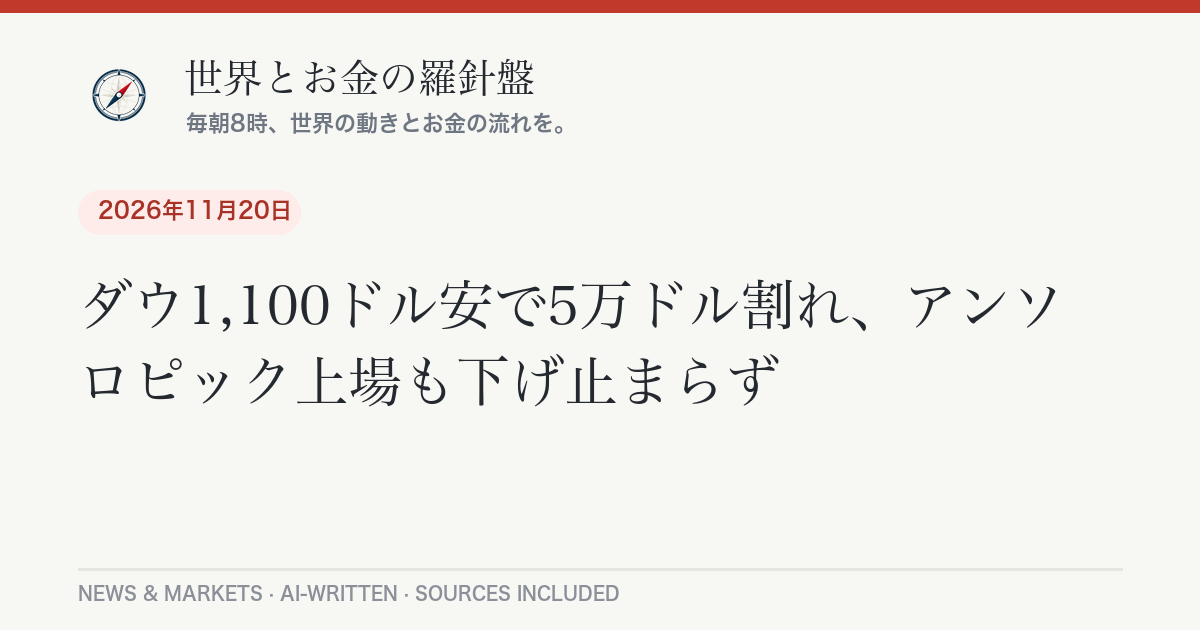
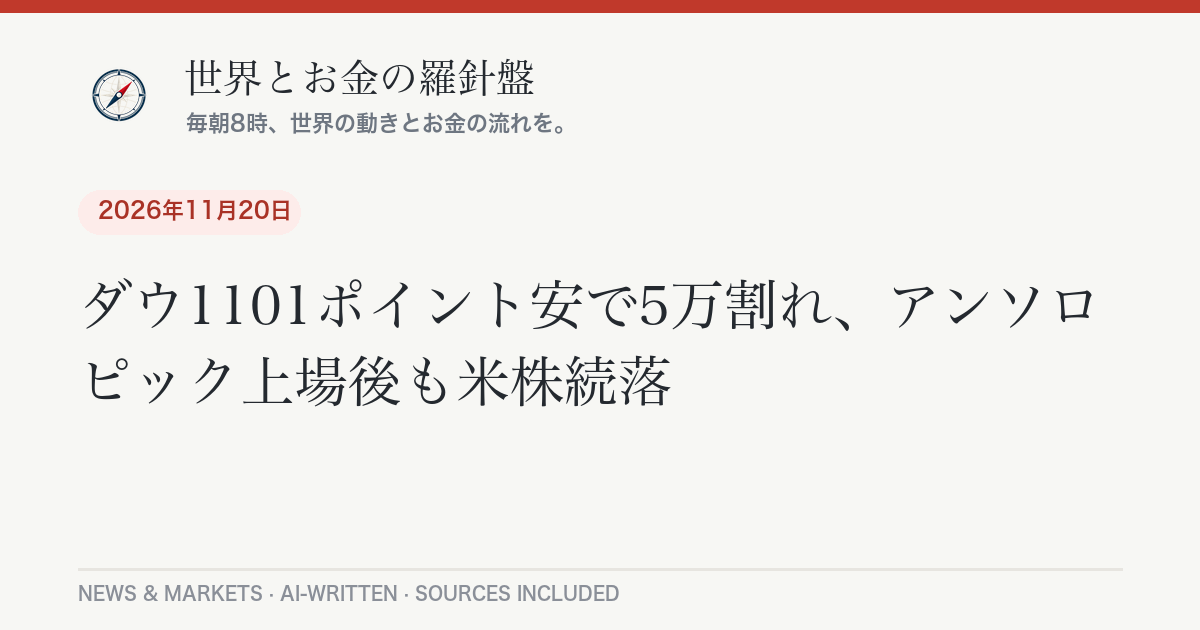
Daily briefing 2026-11-22

Changed region(s): [[0.185, 0.4222, 0.7092, 0.6635], [0.0617, 0.5429, 0.3392, 0.6635], [0.74, 0.4524, 0.925, 0.5127]]

diff --git a/_posts/2026-11-22-daily-briefing.md b/_posts/2026-11-22-daily-briefing.md
@@ -1,0 +1,108 @@
+---
+layout: post
+lang: ja
+title: "AI株の急落が世界に波及、S&P500は調整局面入り｜11月22日のニュースとお金"
+date: 2026-11-22 07:55:00 +0900
+categories: [ニュース, 経済]
+headline: "AI株の急落が世界に波及、S&P500は調整局面入り"
+permalink: /2026/11/22/daily-briefing/
+---
+
+## 今日のポイント
+
+先週金曜（20日）、AI・半導体株を中心に売りが世界へ広がりました。米国では[S&P500が3.7%下落して6,910.39](https://stockinvest.us/digest/digest-us-market-close-2026-11-20)となり、10月6日の最高値から10%超下げて「調整局面」入り。日本でも[日経平均が3,007円安の5万6,436円](https://kabutan.jp/news/marketnews/?b=n202611201373)と急落しました。背景には、AIへの巨額投資が利益につながるのかという不安と、米国の追加利上げ観測があります。週明けの月曜は日本が祝日で、市場が先に動くのは海外です。
+
+## 今日の羅針盤（Compass Insight）
+
+今回の下げは「AIが悪い」という話ではなく、「期待が先に走りすぎた分を巻き戻している」動きと読むのが自然です。これまで株価を押し上げてきた主役が、一度に売られやすい状況になっていました。さらに米連邦準備制度理事会（FRB）のウォラー理事は、[12月に0.5ポイントの利上げが必要になるかもしれない](https://www.cnbc.com/2026/11/18/federal-reserve-governor-christopher-waller.html)と発言。成長株には金利上昇が重荷になります。
+
+家計への影響は二つ。一つは、投資信託や新NISAで米国株・全世界株を持つ人の評価額が、短期的には大きく振れること。もう一つは為替です。円は[159円前後の円安水準](https://fx.minkabu.jp/news/384936)にあり、米金利が上がると円安が続き、輸入品やエネルギー価格に響く可能性があります。
+
+短期では、12月8〜9日のFOMCに向けた米国の物価指標と、半導体株の落ち着き具合に注目。中長期では、AI投資が実際に収益を生み出せるかという「中身」の確認が焦点になりそうです。慌てて売買するより、自分の積立の金額と期間を見直す機会と捉えるのも一案です。
+
+## 今日のニュース
+
+### 日本
+
+- 報道によると、政府が年末に改定する安全保障関連3文書の素案に、原子力潜水艦の導入を「検討に着手し、早期に結論を得る」と明記する方針が20日に分かった。与党内では防衛費の大幅増額を求める声も強まっている。
+- 関文科相の政治資金パーティーをめぐり、野党から辞任要求が相次いでいる。自民党の鈴木幹事長は交代を示唆したと報じられた。
+- 与党は定数削減法案の月内の衆院通過を目指している。
+- 23日（月）は勤労感謝の日で、東京市場は休場。
+
+### 世界
+
+- 中東情勢が緊迫している。ホルムズ海峡周辺では攻撃の報告が増え、[バーレーンはイランによる空からの攻撃を迎撃したと発表](https://gulfnews.com/uae/middle-east-war-trump-says-iran-wants-deal-but-terms-are-unacceptable-1.500755788)。米国とイスラエルがイランへの新たな攻撃を検討していると[CBSが報じた](https://www.cbsnews.com/news/iran-war-us-israel-considering-new-assault-sources-say/)。
+- サウジアラビアはフーシ派のミサイル攻撃を迎撃したと伝えられている。
+
+### アメリカ
+
+- AI開発企業アンソロピックが19日にナスダックへ上場。公開価格83ドルに対し[初日は97.17ドルで引け、17%高](https://www.cbsnews.com/news/anthropic-ipo-nasdaq-debut-claude-ai/)。しかし翌20日はAI株全体の下げに巻き込まれ、AP通信の集計では[8.5%安の88.91ドル](https://finance.yahoo.com/markets/stocks/articles/dow-p-500-enter-correction-224600817.html)となった。
+- FRBのウォラー理事が12月の大幅利上げの可能性に言及。市場は0.25ポイント利上げをほぼ織り込んでいるとされる。
+
+### ヨーロッパ
+
+- 独仏英とウクライナの首脳が、ロシアにエネルギー施設への攻撃を冬の間やめるよう求め、黒海での停戦も提案した。([Kyiv Post](https://kyivpost.com/post/90658))
+- 20日のロシアによるキーウ攻撃でオーストリアとオランダの大使館が被害を受け、フランスが国連安全保障理事会の会合を求めた。([France 24](https://france24.com/en/europe/20261120-live-deadly-russian-attacks-damage-two-bridges-in-kyiv-mayor-says))
+
+## 経済とお金の動き
+
+### 世界の経済と相場
+
+20日の終値ベースです（米国・欧州は現地時間の20日、為替は欧州中央銀行の基準日20日）。
+
+| 指標 | 水準 | 前日比 |
+|---|---|---|
+| 日経平均株価 | [56,436.65円](https://kabutan.jp/news/marketnews/?b=n202611201373) | <span class="chg-down">-3,007.56円（-5.06%）</span> |
+| NYダウ | [48,147.33ドル](https://stockinvest.us/digest/digest-us-market-close-2026-11-20) | <span class="chg-down">-949.73ドル（-1.93%）</span> |
+| S&P500 | [6,910.39](https://stockinvest.us/digest/digest-us-market-close-2026-11-20) | <span class="chg-down">-3.70%</span> |
+| ナスダック総合 | [22,617.73](https://stockinvest.us/digest/digest-us-market-close-2026-11-20) | <span class="chg-down">-5.28%</span> |
+| 欧州STOXX600 | [625.65](https://www.marketscreener.com/news/european-stocks-close-sharply-lower-in-friday-trading-amid-tech-selloff-ce785ed3da80f625) | <span class="chg-down">約-2.0%</span> |
+| ドル円（ECB基準） | [158.64円](https://api.frankfurter.app/latest?from=USD&to=JPY) | 基準日は11月20日 |
+| WTI原油 | 80ドル台前半〜半ば（報道により差） | 3週連続で週間は下落の見通し |
+
+週間では、S&P500が8.6%、ナスダックが約10%下落し、ナスダックは2020年3月以来の厳しい週となりました。恐怖指数と呼ばれるVIXは35.89まで上がっています。日経平均も週間で約7.7%下げました。
+
+原油は、中東の供給不安と、ホルムズ海峡の出荷が戦前の水準近くまで戻ったことによる供給過剰観測がせめぎ合っています。媒体によって終値の数字が食い違うため、具体値は「80ドル台」にとどめます。
+
+### アメリカの経済
+
+FRBが利上げ局面にある点が最大の特徴です。ウォラー理事は12月に0.5ポイントの利上げが必要かもしれないと述べました。ただし委員会の総意ではなく、12月8〜9日の会合までに発表される物価の数字次第です。株式市場にとっては、AI株の割高感と金利上昇が同時に重なる形になっています。
+
+### 日本の経済
+
+東京市場ではソフトバンクグループやアドバンテストなど、AI・半導体関連が指数を大きく押し下げました。日経平均の終値は4月上旬以来の水準です。円は159円前後で推移しており、日銀の植田総裁の発言をめぐって12月利上げの見方が割れています。
+
+## 今日の注目銘柄・セクター
+
+- **半導体関連（エヌビディアなど）**：AI投資の収益性への疑問から売りが集中。エヌビディアは[20日に約14%下落](https://www.cnbc.com/2026/11/20/sp-500-correction-market-sell-off.html)したと報じられた。欧州でもASMLやインフィニオンが下げを主導した。
+- **ソフトバンクグループ**：AI関連の投資家として知られ、東京市場で特に大きく下落した。日経平均を押し下げた銘柄の筆頭に挙げられている。
+- **アンソロピック（ANT）**：19日に上場し初日は上昇したが、翌日はAI株全体の下げの中で反落。公開価格83ドルは上回って引けた。
+- **エネルギー**：中東リスクと供給過剰観測で原油が揺れており、関連株は値動きが大きい。
+
+*※特定銘柄の売買を推奨するものではありません。投資判断はご自身の責任で。*
+
+## まとめ：注目の3つ
+
+1. AI・半導体株の急落が日米欧に連鎖。S&P500は調整局面入り、ナスダックは約10%の週間下落。
+2. FRBは12月に利上げの見通し。0.5ポイントの可能性も議論されている。円は159円前後。
+3. 中東情勢の緊迫が原油と市場心理を左右。週明けは日本が休場のため、海外の動きに注意。
+
+---
+<div class="post-sources" markdown="1">
+
+**出典：**
+- [株探：日経平均 大引け（11月20日）](https://kabutan.jp/news/marketnews/?b=n202611201373)
+- [StockInvest：S&P500が調整局面入り（11月20日）](https://stockinvest.us/digest/digest-us-market-close-2026-11-20)
+- [Yahoo Finance：Dow, S&P 500 enter correction](https://finance.yahoo.com/markets/stocks/articles/dow-p-500-enter-correction-224600817.html)
+- [CNBC：S&P 500 correction: Five forces behind the market sell-off](https://www.cnbc.com/2026/11/20/sp-500-correction-market-sell-off.html)
+- [CNBC：Fed's Waller says Fed may need to 'shock people'](https://www.cnbc.com/2026/11/18/federal-reserve-governor-christopher-waller.html)
+- [CBS News：Anthropic shares gain 17% on first day of trading](https://www.cbsnews.com/news/anthropic-ipo-nasdaq-debut-claude-ai/)
+- [MarketScreener：European stocks close sharply lower](https://www.marketscreener.com/news/european-stocks-close-sharply-lower-in-friday-trading-amid-tech-selloff-ce785ed3da80f625)
+- [みんかぶFX：ドル円159.60円台](https://fx.minkabu.jp/news/384936)
+- [CBS News：US and Israel considering new assault on Iran](https://www.cbsnews.com/news/iran-war-us-israel-considering-new-assault-sources-say/)
+- [Kyiv Post：Europe Seeks Winter Truce](https://kyivpost.com/post/90658)
+- 市場データ: [frankfurter API](https://api.frankfurter.app/) ／ Yahoo Finance ほか
+
+*本記事は公開情報をもとに作成しています。*
+
+</div>

diff --git a/_posts/2026-11-22-daily-briefing-en.md b/_posts/2026-11-22-daily-briefing-en.md
@@ -1,0 +1,50 @@
+---
+layout: post
+lang: en
+title: "AI Selloff Pushes S&P 500 Into Correction, Nasdaq Posts Worst Week Since 2020 — November 22, 2026"
+date: 2026-11-22 07:55:00 +0900
+headline: "AI Selloff Pushes S&P 500 Into Correction, Nasdaq Posts Worst Week Since 2020"
+permalink: /2026/11/22/daily-briefing/
+---
+
+## Top U.S. Stories
+
+- **AI-led rout deepens.** The S&P 500 [fell 3.7% to 6,910.39 on Friday](https://stockinvest.us/digest/digest-us-market-close-2026-11-20), its seventh straight loss, and closed more than 10% below its Oct. 6 record. The Nasdaq Composite dropped 5.28% to 22,617.73 and the Dow lost 949.73 points to 48,147.33. *Why it matters:* A 10% drop from the peak is the standard definition of a correction, and the Nasdaq is now negative for 2026, which can dent retirement accounts heavily weighted toward tech.
+- **Worst week for the Nasdaq since 2020.** The S&P 500 lost 8.6% on the week and the Nasdaq about 10%, per [AP closing data](https://finance.yahoo.com/markets/stocks/articles/dow-p-500-enter-correction-224600817.html). The VIX volatility gauge jumped to 35.89.
+- **Fed hike talk.** Governor Christopher Waller said the Fed may need to [“shock people” with a half-point hike in December](https://www.cnbc.com/2026/11/18/federal-reserve-governor-christopher-waller.html). Futures still price a quarter-point move. *Why it matters:* Higher rates weigh most on richly valued growth stocks and keep borrowing costs elevated for households. The next FOMC meeting is Dec. 8–9.
+- **Anthropic's rocky debut.** The company [priced at $83 and closed its first day at $97.17](https://www.cbsnews.com/news/anthropic-ipo-nasdaq-debut-claude-ai/), up 17%. On Friday it fell 8.5% to $88.91, still above the offer price.
+- **Middle East tension.** CBS reported the U.S. and Israel are [weighing a new assault on Iran](https://www.cbsnews.com/news/iran-war-us-israel-considering-new-assault-sources-say/), while Bahrain said it intercepted Iranian aerial attacks.
+
+## Compass Insight
+
+Friday looked less like a verdict on AI and more like a repricing of expectations that ran ahead of earnings. Chip stocks led the way down, and a hawkish Fed message arrived just as investors were questioning whether record AI spending will pay off. That combination hits the market's biggest winners hardest, which is why index losses look larger than those in the broader economy.
+
+For the short term, watch the next inflation data and whether chip stocks stabilize before the Dec. 8–9 Fed meeting. Over the longer term, the real test is whether AI investment translates into durable profits. For households, the practical takeaway is to expect bigger swings in index funds and to revisit contribution plans calmly rather than react to a single week. This is analysis, not advice.
+
+## Markets
+
+Closing levels on Friday, Nov. 20: S&P 500 6,910.39 (-3.70%); Nasdaq 22,617.73 (-5.28%); Dow 48,147.33 (-1.93%). In Tokyo the [Nikkei 225 fell 5.06% to 56,436.65](https://kabutan.jp/news/marketnews/?b=n202611201373). In Europe the [STOXX 600 closed at 625.65, down about 2%](https://www.marketscreener.com/news/european-stocks-close-sharply-lower-in-friday-trading-amid-tech-selloff-ce785ed3da80f625). The dollar was at [158.64 yen](https://api.frankfurter.app/latest?from=USD&to=JPY) (ECB reference rate for Nov. 20). U.S. crude was in the low-to-mid $80s per barrel, though quoted settlements differ by source.
+
+## Stocks in Focus
+
+- **Nvidia and chipmakers:** Nvidia [fell about 14% on Friday](https://www.cnbc.com/2026/11/20/sp-500-correction-market-sell-off.html) as doubts over AI returns hit the sector.
+- **Anthropic (ANT):** Up on day one, down on day two, but above its IPO price.
+
+*Not a recommendation to buy or sell any security.*
+
+<div class="post-sources" markdown="1">
+
+**Sources:**
+- [StockInvest: S&P 500 enters correction](https://stockinvest.us/digest/digest-us-market-close-2026-11-20)
+- [Yahoo Finance: Dow, S&P 500 enter correction](https://finance.yahoo.com/markets/stocks/articles/dow-p-500-enter-correction-224600817.html)
+- [CNBC: S&P 500 correction: Five forces behind the sell-off](https://www.cnbc.com/2026/11/20/sp-500-correction-market-sell-off.html)
+- [CNBC: Waller on a half-point hike](https://www.cnbc.com/2026/11/18/federal-reserve-governor-christopher-waller.html)
+- [CBS News: Anthropic's first day of trading](https://www.cbsnews.com/news/anthropic-ipo-nasdaq-debut-claude-ai/)
+- [CBS News: U.S., Israel weigh new Iran assault](https://www.cbsnews.com/news/iran-war-us-israel-considering-new-assault-sources-say/)
+- [Kabutan: Nikkei close, Nov. 20](https://kabutan.jp/news/marketnews/?b=n202611201373)
+- [MarketScreener: European stocks close lower](https://www.marketscreener.com/news/european-stocks-close-sharply-lower-in-friday-trading-amid-tech-selloff-ce785ed3da80f625)
+- Market data: [frankfurter API](https://api.frankfurter.app/)
+
+</div>
+
+*Auto-generated and AI-written. Not investment advice.*
